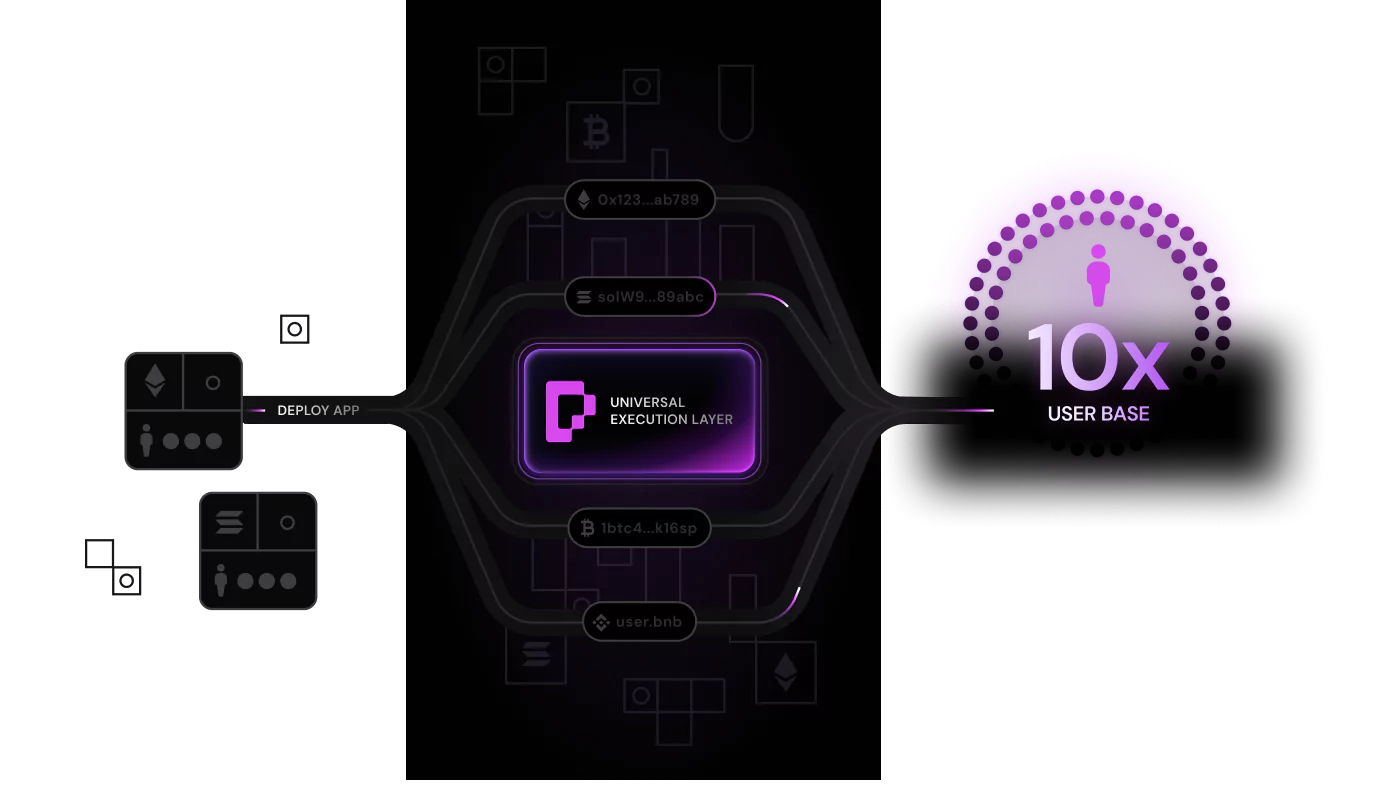
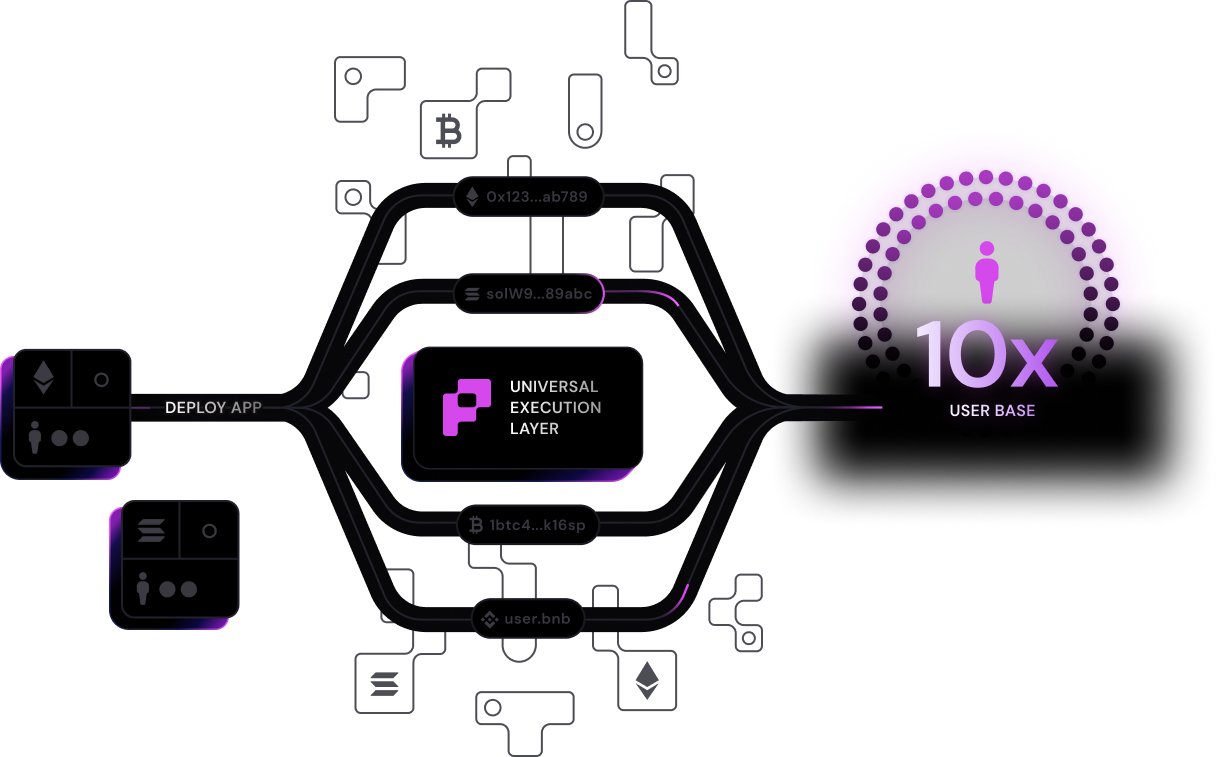
fix: hero image section

diff --git a/src/components/Home/HeroImageSection.tsx b/src/components/Home/HeroImageSection.tsx
@@ -3,7 +3,6 @@
 /* eslint-disable */
 import { device } from '@site/src/config/globals';
 import { A, H2, Span } from '@site/src/css/SharedStyling';
-import React from 'react';
 import { TbArrowRight } from 'react-icons/tb';
 import styled from 'styled-components';
 
@@ -91,8 +90,8 @@ const HeroBG = styled.div`
   background-image: url(${require('@site/static/assets/website/hero/hero-image@3x.webp')
     .default});
   background-repeat: no-repeat;
-  background-size: 100% auto;
-  background-position: center top;
+  background-size: contain;
+  background-position: calc(50% + 30px) center;
 
   @media ${device.tablet} {
     background: none;
@@ -223,6 +222,10 @@ const LearnMoreLink = styled(A)`
   gap: 12px;
   margin: 16px 0 0 0;
   background: transparent;
+
+  &:hover {
+    text-decoration: underline;
+  }
 
   .start-svg {
     color: #e163ff;

diff --git a/src/pages/home.tsx b/src/pages/home.tsx
@@ -796,7 +796,6 @@ const HeroBody = styled(ItemV)`
   }
 
   @media ${device.laptop} {
-    // margin: 69px 0px;
     text-align: center;
 
     & > Span {
@@ -805,7 +804,6 @@ const HeroBody = styled(ItemV)`
   }
 
   @media ${device.mobileL} {
-    // margin: 69px 0px;
     h1,
     span {
       white-space: normal;
